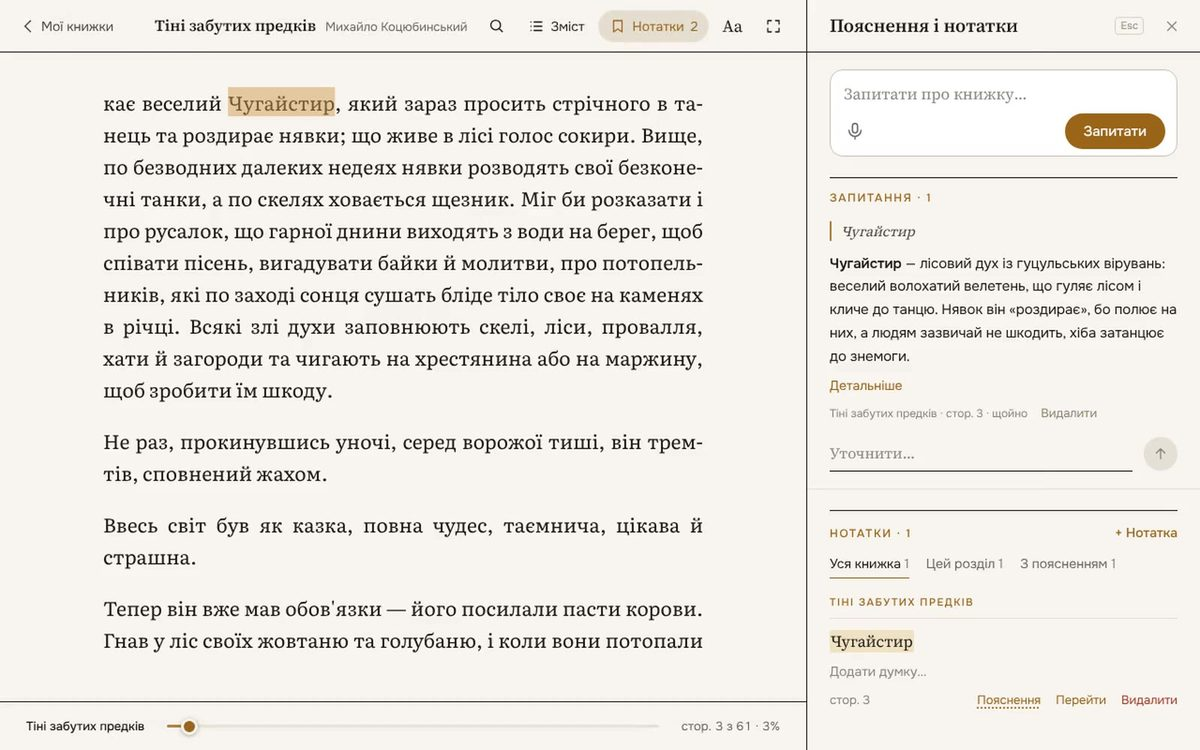
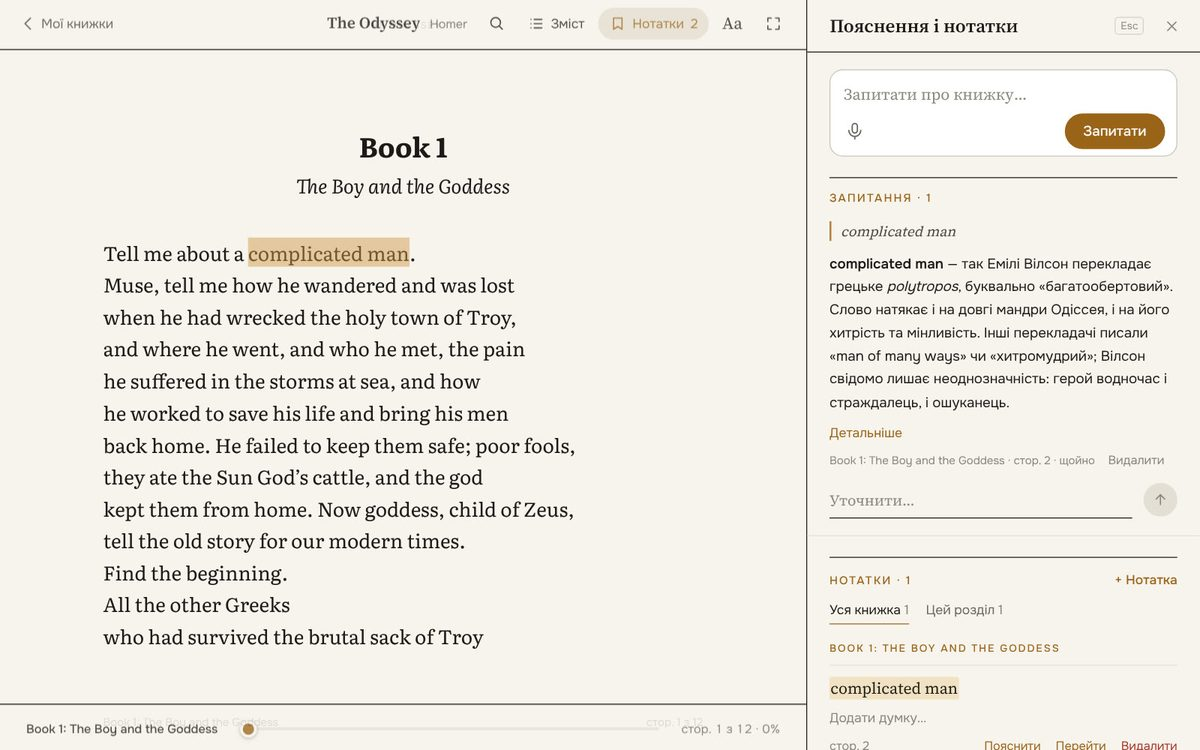
Homepage reader block: screenshots from the landing's new Odyssey (Emily Wilson) frames (Max)
Claude-Session: https://claude.ai/code/session_01EE9gMH7ayR8RimaRazf5D6

diff --git a/web/pages.js b/web/pages.js
@@ -1351,7 +1351,7 @@ function yearHead(year, rows) {
 }
 
 // ---- the homepage block about the reader (Max, 2026-11-01; revived 2026-11-04 once the reader's new landing was live) ----
-// Same words as app.chytai.org.ua's landing, and the same real screenshot of the reader («Тіні забутих предків»,
+// Same words as app.chytai.org.ua's landing, and the same real screenshot of the reader (Emily Wilson's «Odyssey»,
 // an explained word): the computer one on wide screens, a crop of the phone one on phones. Leads to the reader.
 const READER = "https://app.chytai.org.ua";
 function readerBand() {
